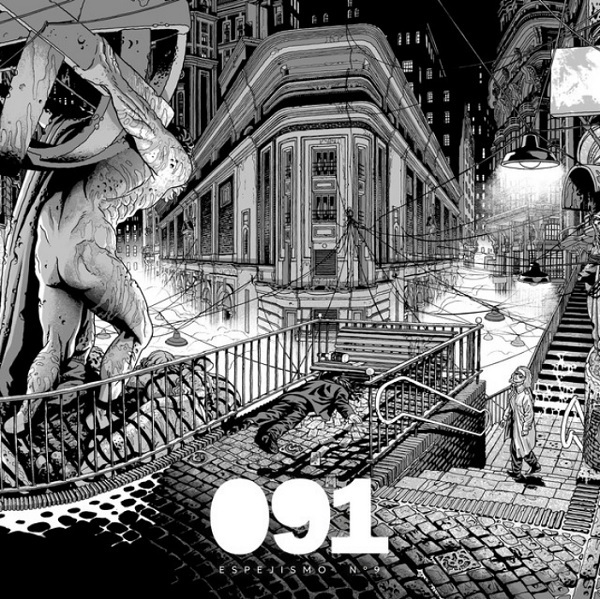
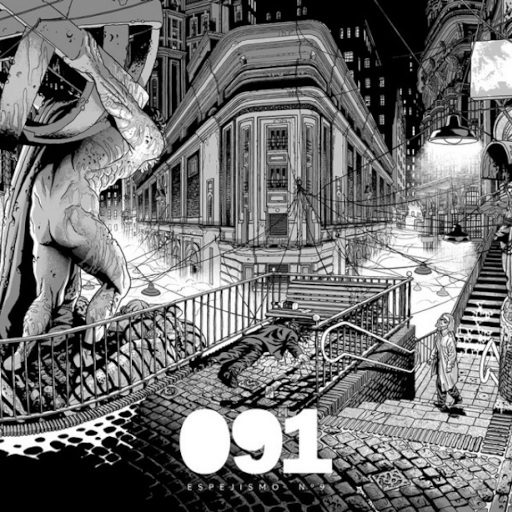
refactor: Limpieza absoluta de links estaticos en planets.js y reparacion de renderLinks

diff --git a/index.html b/index.html
@@ -988,39 +988,78 @@
         function renderLinks(world) {
             const container = document.getElementById('aura-links');
             container.innerHTML = '';
+            
+            const normName = world.name.toLowerCase().replace(/ /g, '');
+            const folderName = normName === 'tox5' ? 'toxv' : normName; // mapeo para tox5
+            const pAssets = planetAssetsMap[folderName];
+            
             let hasLinks = false;
             
-            // Legacy support
-            if (world.trans_url) {
-                hasLinks = true;
-                const a = document.createElement('a');
-                a.className = 'aura-link';
-                a.href = '#';
-                a.innerText = 'Ver Transmisión';
-                a.onclick = (e) => { e.preventDefault(); openAuraModal(world.trans_url); };
-                container.appendChild(a);
-            }
-            if (world.reg_url) {
-                hasLinks = true;
-                const a = document.createElement('a');
-                a.className = 'aura-link';
-                a.href = '#';
-                a.innerText = 'Ver Registro';
-                a.onclick = (e) => { e.preventDefault(); openAuraModal(world.reg_url); };
-                container.appendChild(a);
-            }
-            
-            // New dynamic links
-            if (world.links && world.links.length > 0) {
-                hasLinks = true;
-                world.links.forEach((link, index) => {
+            if (pAssets && pAssets.files) {
+                const files = pAssets.files;
+                const folder = pAssets.folder;
+                
+                // HTML Files (Conoce X)
+                const htmlFiles = files.filter(f => f.toLowerCase().endsWith('.html'));
+                htmlFiles.sort();
+                htmlFiles.forEach((hf) => {
+                    hasLinks = true;
                     const a = document.createElement('a');
                     a.className = 'aura-link';
                     a.href = '#';
-                    a.innerText = link.label;
-                    a.onclick = (e) => { e.preventDefault(); openAuraModal(link.url); };
+                    a.innerText = (hf.toLowerCase() === 'index.html') ? `CONOCE ${world.name}` : hf.toUpperCase();
+                    a.onclick = (e) => { e.preventDefault(); openAuraIframe(`${folder}/${hf}`); };
                     container.appendChild(a);
                 });
+                
+                // Videos (Transmisión)
+                const videos = files.filter(f => f.toLowerCase().endsWith('.mp4') || f.toLowerCase().endsWith('.webm'));
+                videos.sort();
+                videos.forEach((vid, i) => {
+                    hasLinks = true;
+                    const a = document.createElement('a');
+                    a.className = 'aura-link';
+                    a.href = '#';
+                    
+                    const playIcon = `<svg viewBox="0 0 24 24" width="16" height="16" fill="currentColor" style="vertical-align: middle; margin-right: 4px; margin-bottom: 2px;"><polygon points="5 3 19 12 5 21 5 3"></polygon></svg>`;
+                    a.innerHTML = videos.length > 1 ? `${playIcon} ${i + 1}` : `${playIcon}`;
+                    
+                    a.onclick = (e) => { e.preventDefault(); openAuraModal(`${folder}/${vid}`); };
+                    container.appendChild(a);
+                });
+            } else {
+                // Fallback estático (si no hay API o si la carpeta no existe)
+                if (world.trans_url) {
+                    hasLinks = true;
+                    const a = document.createElement('a');
+                    a.className = 'aura-link';
+                    a.href = '#';
+                    const playIcon = `<svg viewBox="0 0 24 24" width="16" height="16" fill="currentColor" style="vertical-align: middle; margin-right: 4px; margin-bottom: 2px;"><polygon points="5 3 19 12 5 21 5 3"></polygon></svg>`;
+                    a.innerHTML = `${playIcon}`;
+                    a.onclick = (e) => { e.preventDefault(); openAuraModal(world.trans_url); };
+                    container.appendChild(a);
+                }
+                if (world.reg_url) {
+                    hasLinks = true;
+                    const a = document.createElement('a');
+                    a.className = 'aura-link';
+                    a.href = '#';
+                    const playIcon = `<svg viewBox="0 0 24 24" width="16" height="16" fill="currentColor" style="vertical-align: middle; margin-right: 4px; margin-bottom: 2px;"><polygon points="5 3 19 12 5 21 5 3"></polygon></svg>`;
+                    a.innerHTML = `${playIcon} REGISTRO`;
+                    a.onclick = (e) => { e.preventDefault(); openAuraModal(world.reg_url); };
+                    container.appendChild(a);
+                }
+                if (world.links && world.links.length > 0) {
+                    world.links.forEach((link, index) => {
+                        hasLinks = true;
+                        const a = document.createElement('a');
+                        a.className = 'aura-link';
+                        a.href = '#';
+                        a.innerText = link.label;
+                        a.onclick = (e) => { e.preventDefault(); openAuraModal(link.url); };
+                        container.appendChild(a);
+                    });
+                }
             }
             
             container.style.display = hasLinks ? 'flex' : 'none';

diff --git a/planets.js b/planets.js
@@ -6,8 +6,7 @@ const worldPalettes = [
         "c2": 61183,
         "c3": 5570815,
         "type": "neon",
-        "description": "Ciudad distópica de luces de neón.",
-        "hasTransmission": false
+        "description": "Ciudad distópica de luces de neón."
     },
     {
         "name": "AURA 1",
@@ -16,10 +15,7 @@ const worldPalettes = [
         "c2": 11141375,
         "c3": 16746751,
         "type": "aura",
-        "description": "Estación de transmisión anómala detectada.",
-        "hasTransmission": true,
-        "trans_url": "assets/planeta/aura1/video1.mp4",
-        "reg_url": "assets/planeta/aura1/video2.mp4"
+        "description": "Estación de transmisión anómala detectada."
     },
     {
         "name": "SOLARIS 2",
@@ -28,8 +24,7 @@ const worldPalettes = [
         "c2": 16766720,
         "c3": 16711680,
         "type": "fire",
-        "description": "Superficie en constante ignición.",
-        "hasTransmission": false
+        "description": "Superficie en constante ignición."
     },
     {
         "name": "TERRA NOVA 3",
@@ -38,8 +33,7 @@ const worldPalettes = [
         "c2": 17408,
         "c3": 8965120,
         "type": "terra",
-        "description": "Flora hiper-evolucionada.",
-        "hasTransmission": false
+        "description": "Flora hiper-evolucionada."
     },
     {
         "name": "TOX 5",
@@ -48,15 +42,7 @@ const worldPalettes = [
         "c2": 35071,
         "c3": 13434624,
         "type": "toxic",
-        "description": "Atmósfera corrosiva letal.",
-        "hasTransmission": true,
-        "trans_url": "assets/video/jarre-equinoxe-4.webm",
-        "links": [
-            {
-                "url": "assets/planeta/toxv/index.html",
-                "label": "Conoce TOX V"
-            }
-        ]
+        "description": "Atmósfera corrosiva letal."
     },
     {
         "name": "GLACIER 5",
@@ -65,8 +51,7 @@ const worldPalettes = [
         "c2": 16777215,
         "c3": 22015,
         "type": "ice",
-        "description": "Páramo congelado absoluto.",
-        "hasTransmission": false
+        "description": "Páramo congelado absoluto."
     },
     {
         "name": "ESPEJISMO 9",
@@ -75,9 +60,7 @@ const worldPalettes = [
         "c2": 10021682,
         "c3": 14734055,
         "type": "toxic",
-        "description": "Planeta generado por consola.",
-        "hasTransmission": true,
-        "texture_url": "assets/planeta/espejismo9/textura.jpg"
+        "description": "Planeta generado por consola."
     },
     {
         "name": "JMJARRE10",
@@ -86,9 +69,6 @@ const worldPalettes = [
         "c2": 14178227,
         "c3": 3556942,
         "type": "ice",
-        "description": "La estructura del universo al descubierto en una sola nota visual.",
-        "hasTransmission": true,
-        "texture_url": "assets/planeta/jmjarre10/textura.png",
-        "trans_url": "assets/planeta/jmjarre10/video1.webm"
+        "description": "La estructura del universo al descubierto en una sola nota visual."
     }
 ];